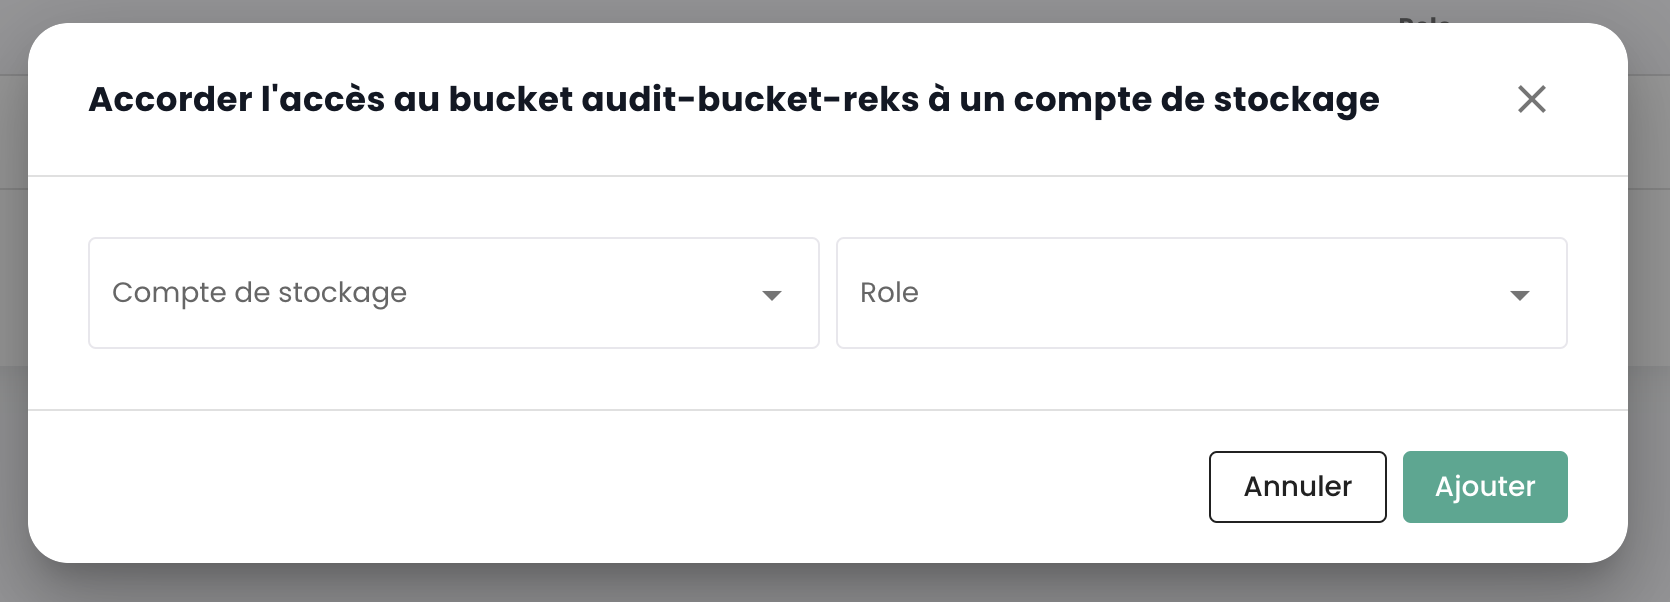
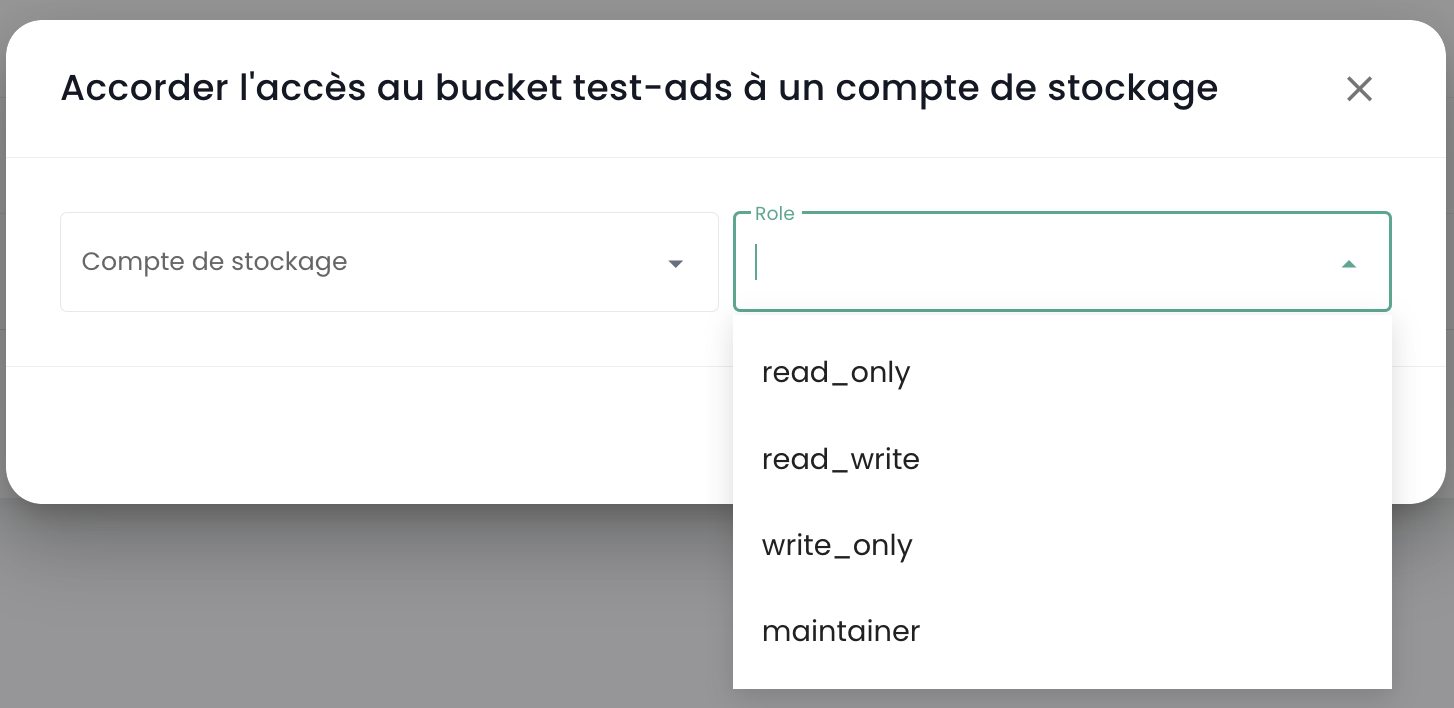
Add pictograms doc, add incidents support level doc, add S3 permissions doc

diff --git a/docs/console/console_quickstart.md b/docs/console/console_quickstart.md
@@ -50,6 +50,39 @@ La première étape est l'identification du type de demande de support :
 
 Vous avez ensuite la possibilité de donner des précisions et d'inclure des fichiers (image ou journaux par exemple).
 
+Le commanditaire peut également préciser un niveau de criticité (P1 à P4) dans la description du ticket, dans le cas d'un incident, tel que:
+
+**CRITIQUE (P1) - Notification immédiate**:
+
+- Suspicion de fuite de données sensibles
+- Détection d'un accès non autorisé à vos données
+- Compromission de vos identifiants d'administration
+- Indisponibilité totale de vos services critiques
+- Comportements anormaux sur des données sensibles
+- Violation de données à caractère personnel
+
+**HAUTE (P2) - Notification < 2h**:
+
+- Dysfonctionnement des accès utilisateurs
+- Anomalie dans le chiffrement de vos données
+- Perte d'accès à certaines fonctionnalités critiques
+- Incohérence dans les données
+- Lenteurs majeures impactant l'activité
+
+**MOYENNE (P3) - Notification < 4h**:
+
+- Problème de performance localisé
+- Incident sur une fonction non critique
+- Erreur de configuration avec impact limité
+- Difficulté d'accès ponctuelle
+
+**BASSE (P4) - Notification < 24h**:
+
+- Demande d'investigation
+- Anomalie sans impact direct
+- Question de conformité
+- Besoin de clarification technique
+
 ![](images/shiva_support_02.png)
 
 Une fois votre demande effectuée, il est possible de retrouver vos demandes via __l'icône 'bouée'__ situé en haut à droite de l'écran :
@@ -85,6 +118,8 @@ Voici une présentation des différents modules disponibles. De nouveaux modules
 - __Colocation__ : Offre la vue sur les équipements situés en zone de __collocation mutualisée ou dédiée__,
 - __Commande__ : Permet la commande de ressources et le suivi des déploiements,
 - __Administration__ : Regroupe les fonctions d'administration des utilisateurs et des tenants ainsi que l'accès à la journalisation globale.
+
+Les pictogrammes __'NEW'__ signifient que le produit en question a été provisionné mais n'est pas encore qualifié __offre SecNumCloud__ et __'BETA'__ signifient que le produit en question a été provisionné et vient d'être qualifié __offre SecNumCloud__.
 
 ## Accès aux fonctionnalités utilisateur via l'API
 

diff --git a/docs/storage/oss/quickstart.md b/docs/storage/oss/quickstart.md
@@ -58,11 +58,59 @@ Les associations de compte aux buckets sont réalisées dans l'onglet '__Politiq
 
 ![](images/S3_account_assign.png)
 
-Cette association permet de donner l'accès du compte de stockage au bucket. Il y trois rôle :
+Cette association permet de donner l'accès du compte de stockage au bucket. Il y quatres rôles :
 
-1. **Maintener** : Les droits lecture, ecriture, gestion des droits et gestion de la politique
-2. **Lecteur** : Lire les fichiers dans les buckets et les télécharger.
+1. **Mainteneur** : Les droits de lecture, ecriture, gestion des droits et gestion de la politique
+
+Les permissions S3 derrière ce rôle:
+```json
+{
+    "name": "maintainer",
+    "permissions": [
+        "s3:*"
+    ]
+}
+```
+
+2. **Ecrivain et Lecteur** : Lire et éditer, modifier, supprimer les fichiers dans les buckets.
+
+Les permissions S3 derrière ce rôle:
+```json
+{
+    "name": "read_write",
+    "permissions": [
+        "s3:Get*"
+        "s3:List*"
+        "s3:*Object"
+    ]
+}
+```
+
 3. **Ecrivain** : Lire et éditer, modifier, supprimer les fichiers dans les buckets.
+
+Les permissions S3 derrière ce rôle:
+```json
+{
+    "name": "write_only",
+    "permissions": [
+        "s3:List*"
+        "s3:*Object"
+    ]
+}
+```
+
+4. **Lecteur** : Lire les fichiers dans les buckets et les télécharger.
+
+Les permissions S3 derrière ce rôle:
+```json
+{
+    "name": "read_only",
+    "permissions": [
+        "s3:Get*"
+        "s3:List*"
+    ]
+}
+```
 
 ![](images/S3_account_access.png)
 
